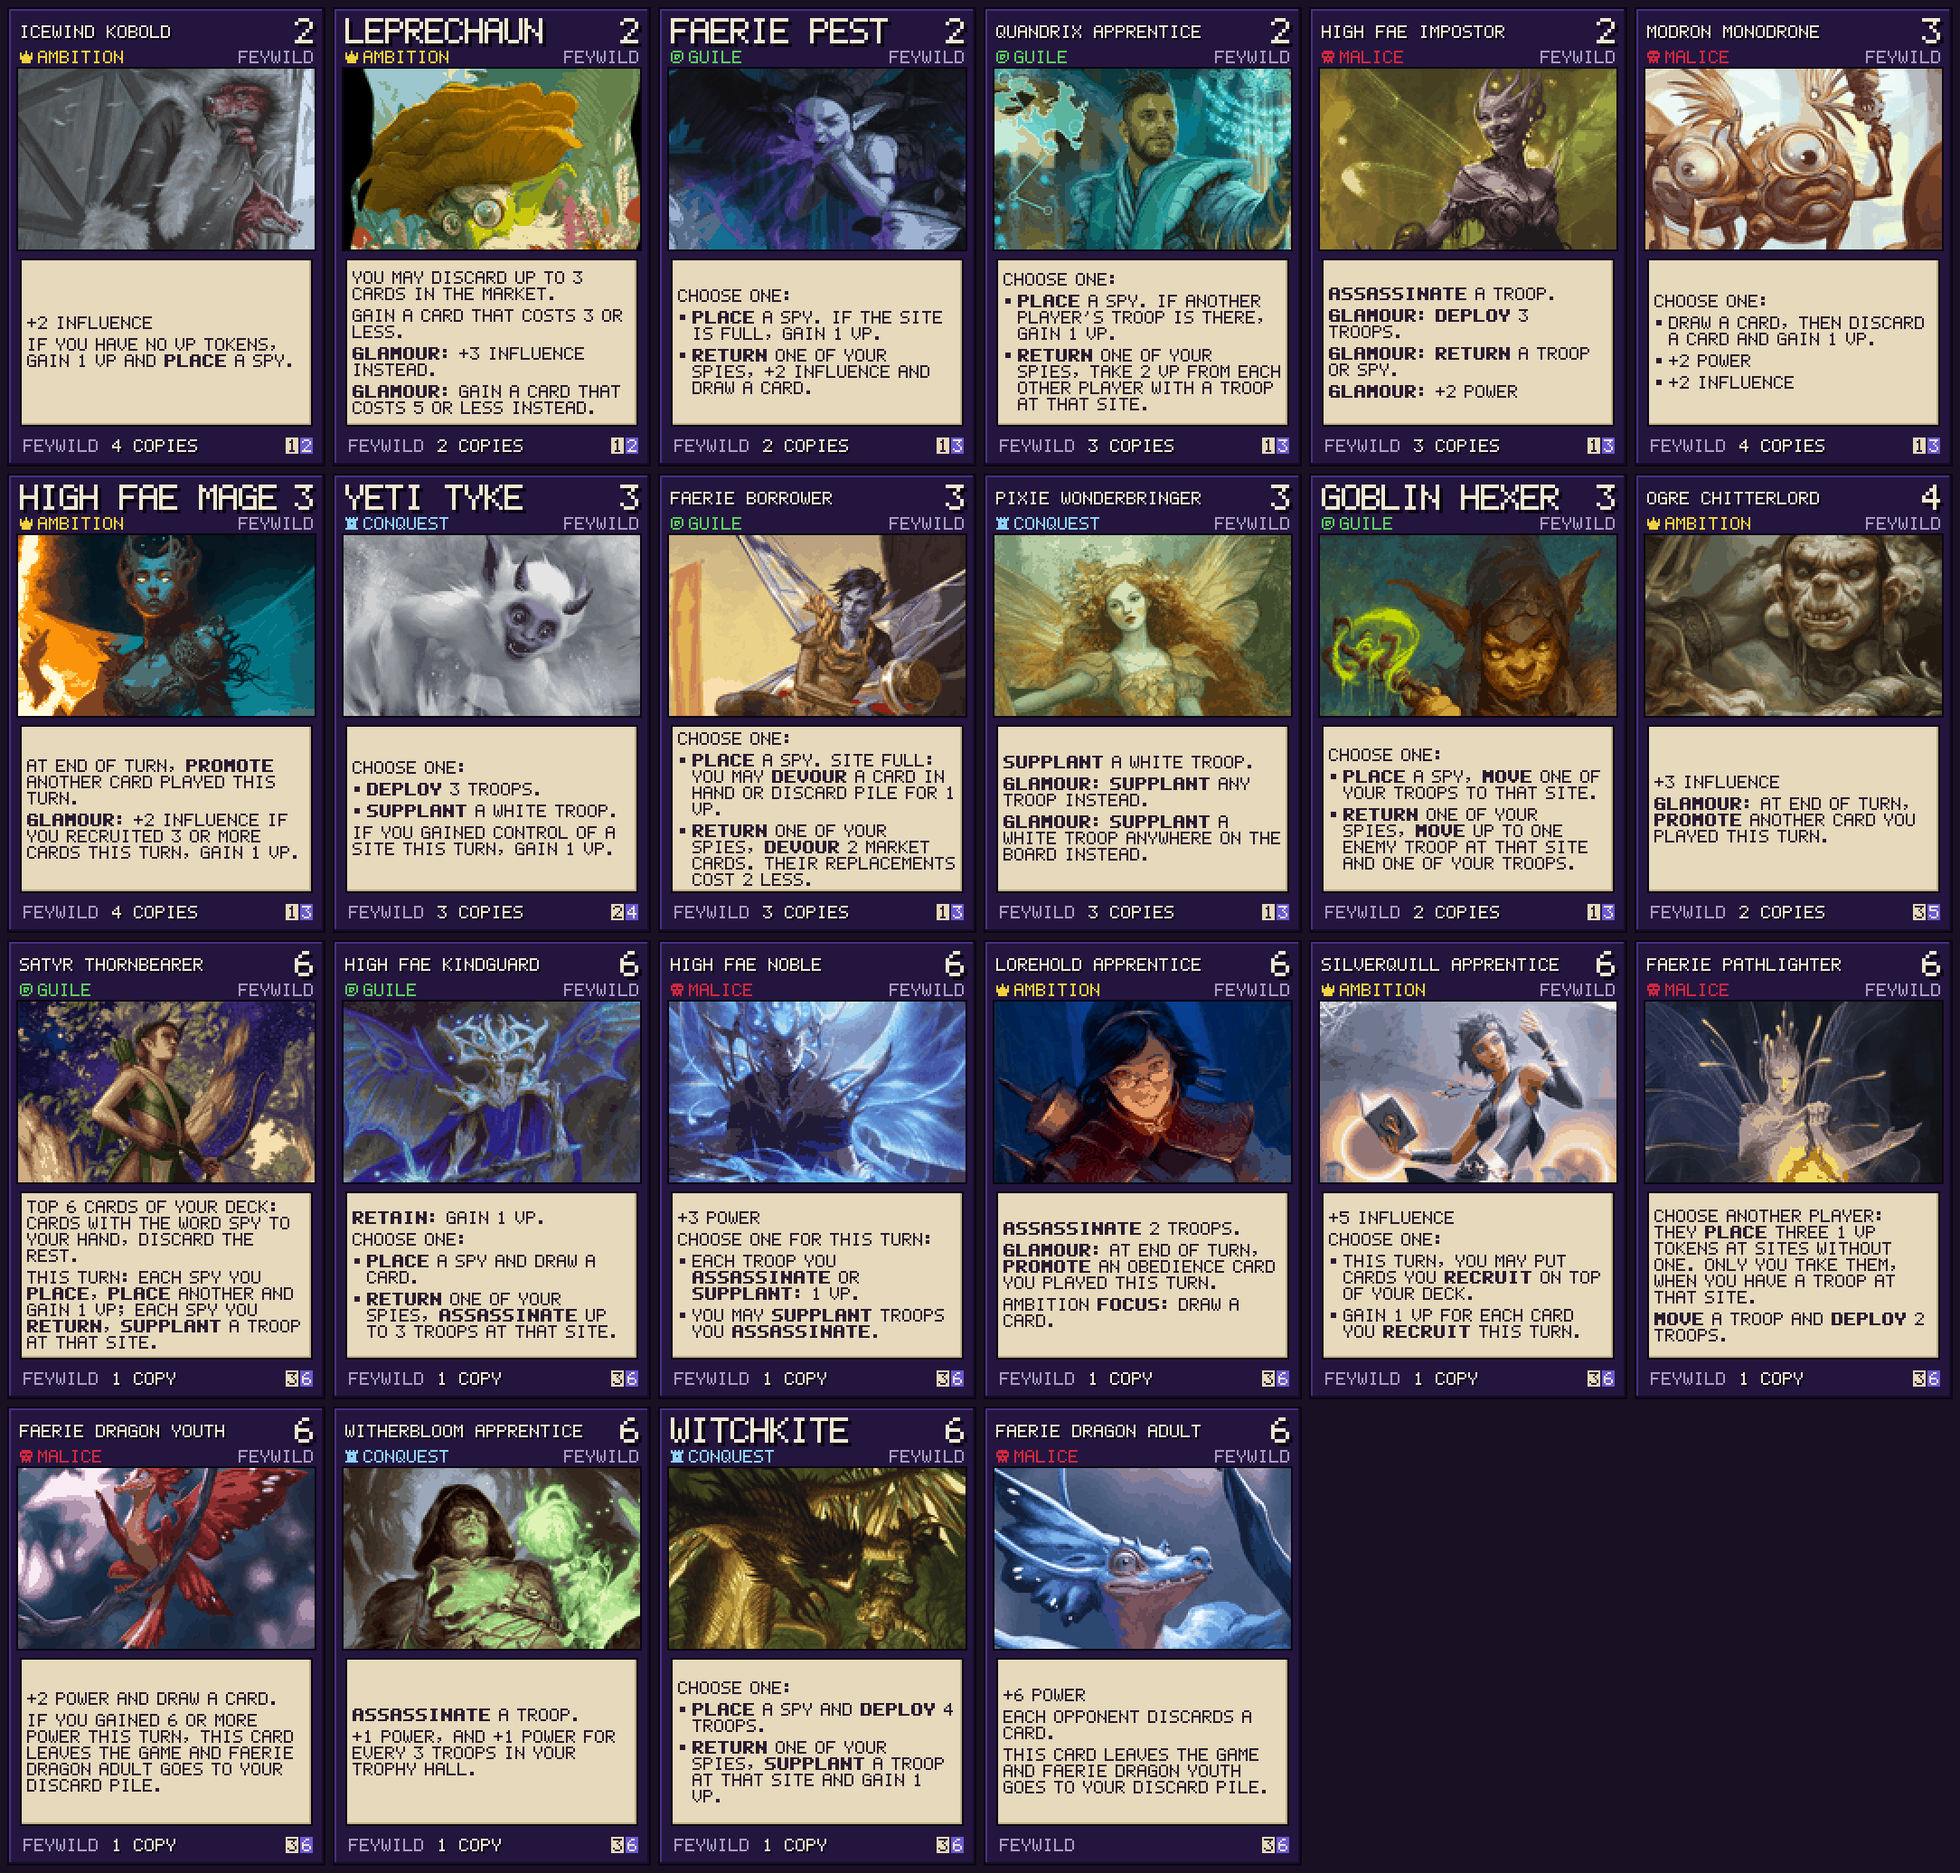
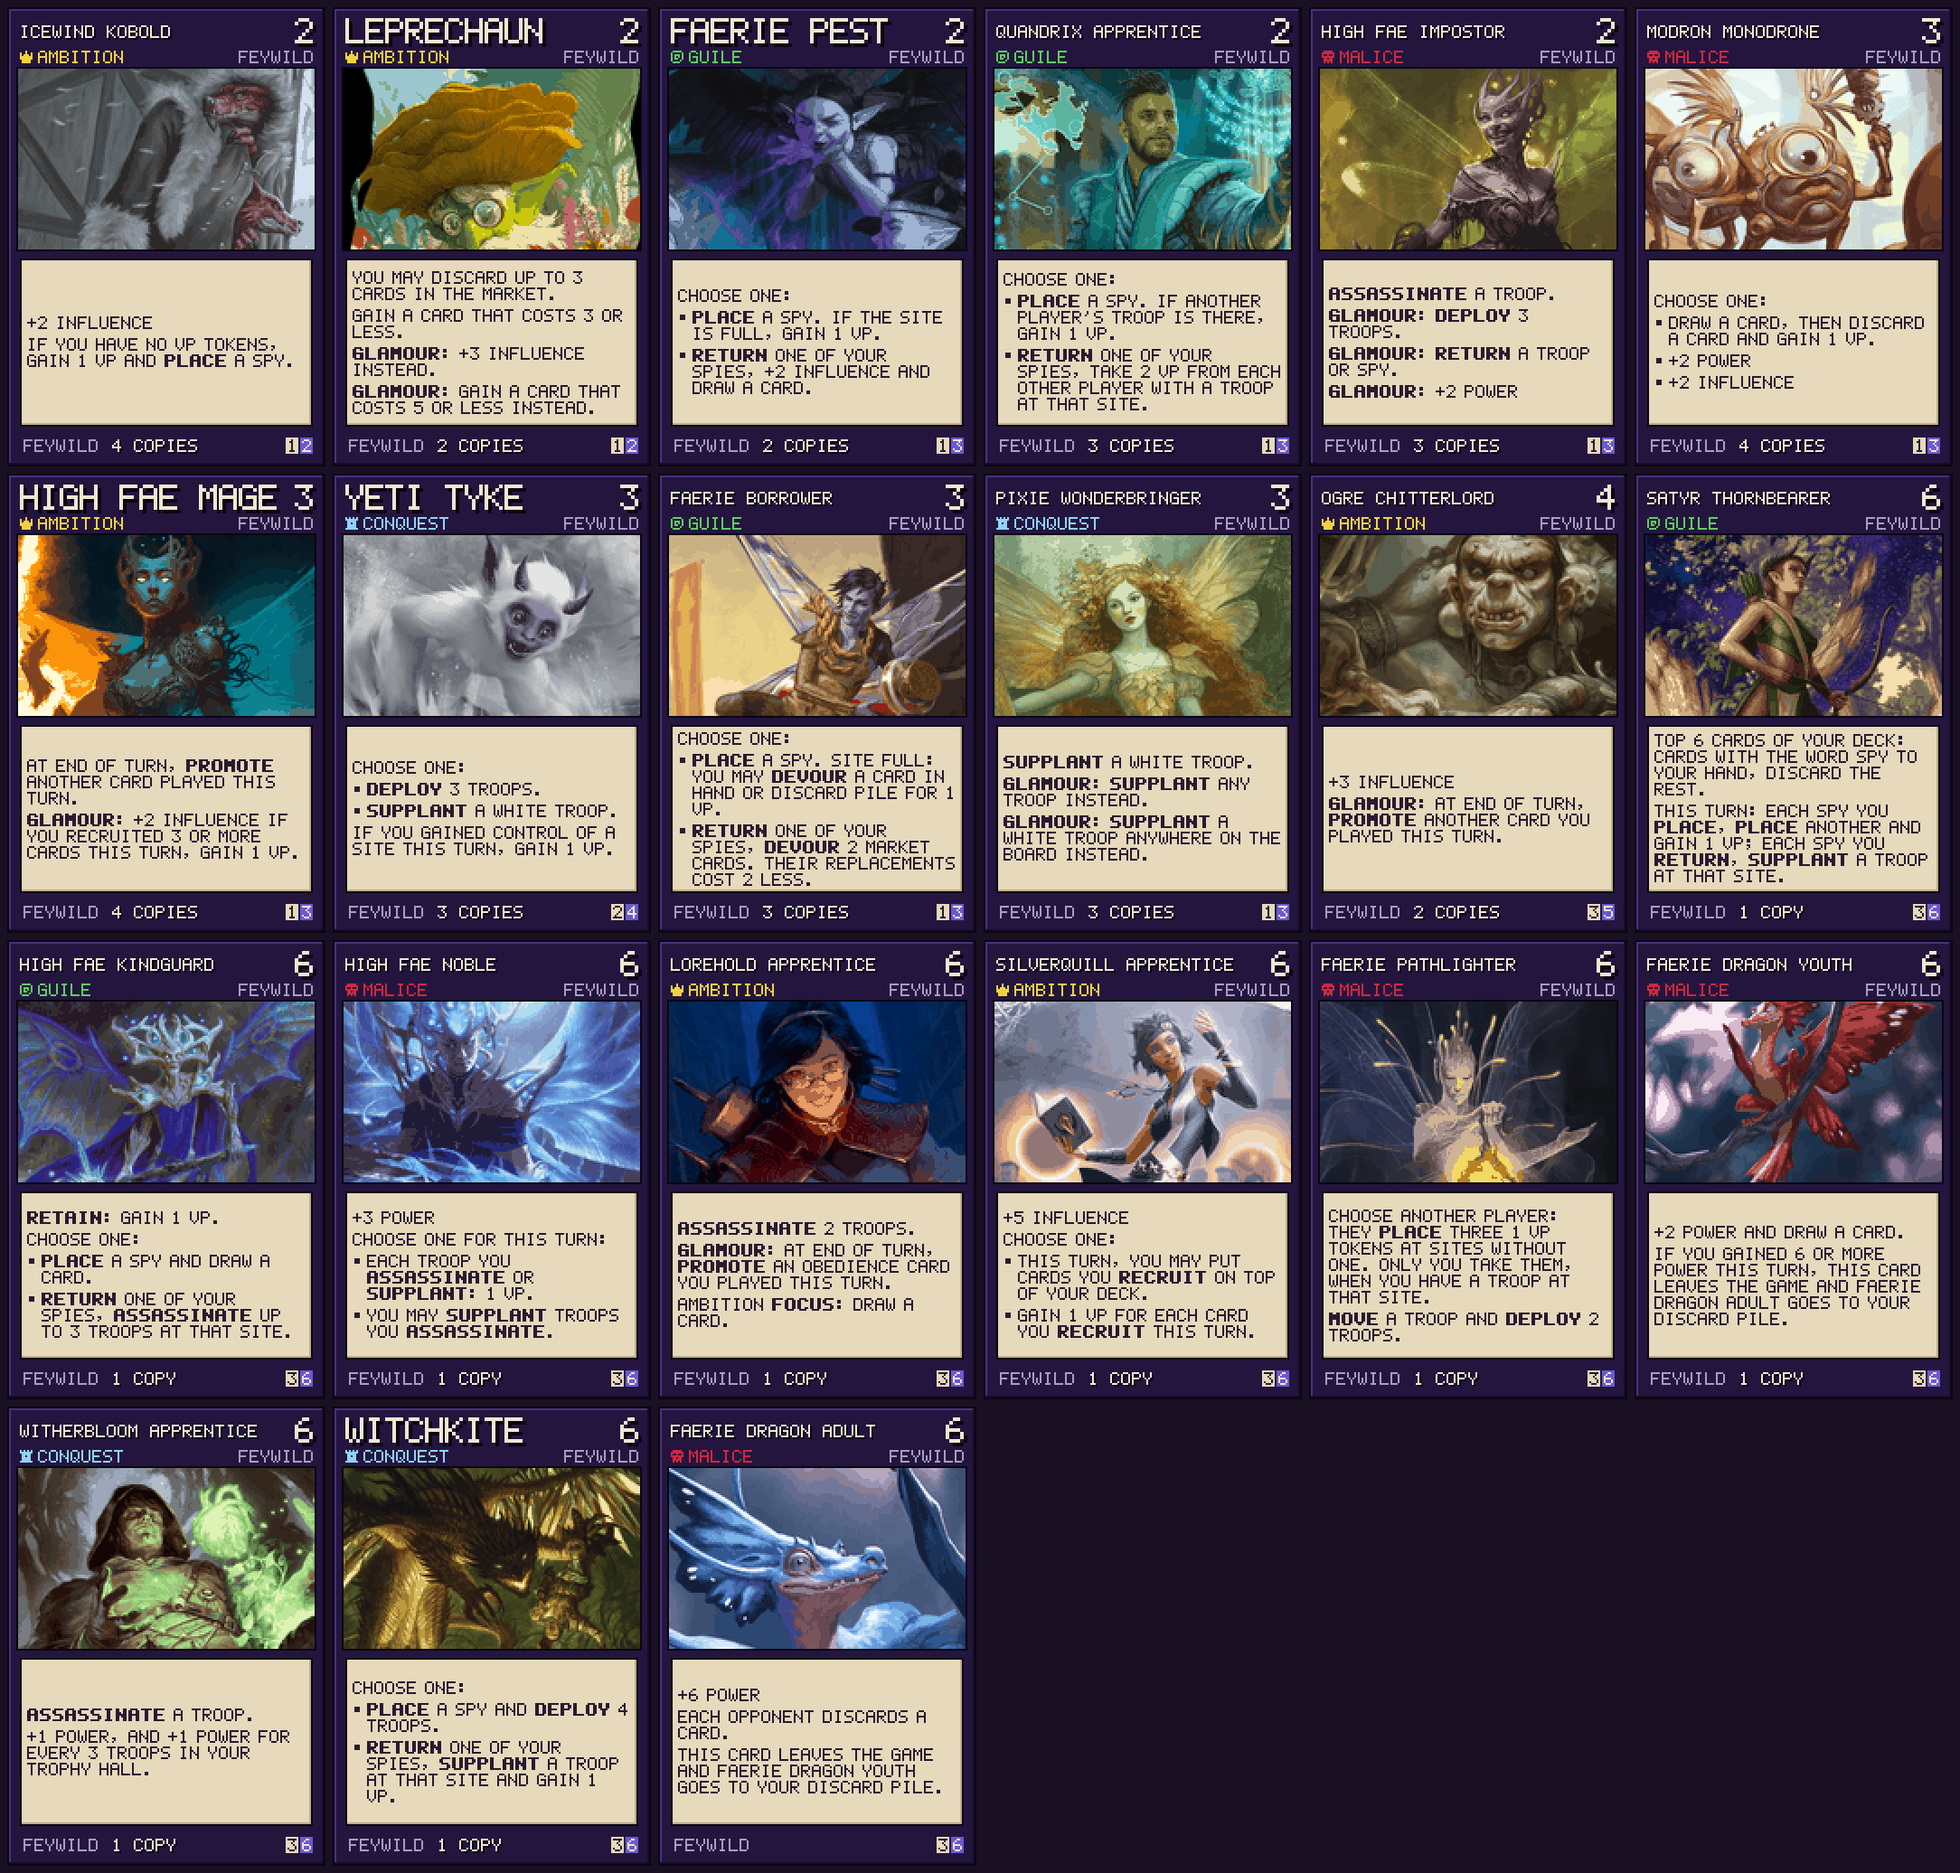
Stage NE-27: FEYWILD cut to 40 cards / 20 unique by the owner - Goblin Hexer out (stays in cards.json), Icewind Kobold and High Fae Mage 3 copies each

Changed region(s): [[0.0, 0.4942, 1.0, 0.7104], [0.0, 0.7413, 0.6799, 1.0], [0.649, 0.2471, 1.0, 0.4633]]

diff --git a/Claude outputs/new_era_handoff.md b/Claude outputs/new_era_handoff.md
@@ -6,7 +6,7 @@
 - **Всё закоммичено, запушено и задеплоено** (кроме коммита с этой сводкой — его push по слову владельца). На сервере сборка **1792240980**, **PROTOCOL 33** (`net/net_session.gd`). Проверка: `curl http://129.101.123.70/tyrants/version.txt`.
 - **Тесты:** `пройдено: 2005, провалено: 0`, сеть `151 / 0`. В тесте карт 329 (126 классических + 25 Celestial + 25 Shadow + 21 Piltover + 20 Siege + 20 Mercenaries + 25 Avernus + 23 Icewind Dale + 21 Calimshan + 23 Kara-Tur). Сетевой `[server4] … доска легла в сетку` иногда падает по времени — повторный прогон проходит. Полный прогон run_tests идёт ~5–8 минут (запускать в фоне).
 - **Колоды:** 7 колод New Era в обычном пуле (NE-20), все 40/20. Две последние — `wip` (только кнопками в NEW ERA, не в STANDARD/RANDOM и онлайн-поиске): **CALIMSHAN** (Shurima, NE-21/22) и **KARA-TUR** (Ionia, NE-23…25). Снять `wip` — только по слову владельца (меняет сиды обычных режимов), затем поднять PROTOCOL и задеплоить. Обе колоды владелец **ещё не проверял живьём** — чек-листы в `new_era_shurima.md` и `new_era_ionia.md`.
-- **NE-26 (2026-10-17): Bandle City → FEYWILD** (ключ `bandle`, id 49900–49922, `wip`, 21 уникальная / 44 карты — все карты мода; Rumble и Lulu убраны владельцем, вместо них Norra — картинка PDF **457**, раздел Poro). Всё по колоде — `Claude outputs/new_era_bandle.md`, лист `Claude outputs/feywild_cards_all.png`. **Ждёт владельца:** что убрать до 40/20, живая проверка, потом PROTOCOL и деплой. Следующая по PDF — **Targon** (картинки с 210: Soraka, Zoe, Taric, Diana, Pantheon, Leona…; механика Gems/Tribute).
+- **NE-26 (2026-10-17): Bandle City → FEYWILD** (ключ `bandle`, id 49900–49922, `wip`, **40/20** (NE-27: убран Goblin Hexer, Icewind Kobold и High Fae Mage по 3; все арты со сценой — NE-26b); Rumble и Lulu убраны владельцем, вместо них Norra — картинка PDF **457**, раздел Poro). Всё по колоде — `Claude outputs/new_era_bandle.md`, лист `Claude outputs/feywild_cards_all.png`. **Ждёт владельца:** живая проверка (чек-лист в справке), снятие `wip`, потом PROTOCOL и деплой. Следующая по PDF — **Targon** (картинки с 210: Soraka, Zoe, Taric, Diana, Pantheon, Leona…; механика Gems/Tribute).
 - **Арты платных книг D&D Beyond** доступны: в списке поиска (`/monsters?filter-search=…`) у каждой строки `.monster-icon a[href]` — полный арт 1000 px, даже если страница монстра закрыта. Свободные существа больше не проблема.
 - **Порядок работы с новой колодой (владелец, 2026-10-16):** сделать колоду **целиком (все карты мода)**, `wip` → лист всех карт (`tools/new_era/cards_sheet.gd`, сам сортирует по цене) → владелец сам говорит, что убрать до 40/20 (столько уникальных, чтобы осталось 20, и копий, чтобы вышло 40; если после выреза не хватает копий — спросить, кому добавить). Потом `half_decks.json`, тест колоды (число карт, уникальных, размер рынка), справка, PROTOCOL.
 - **Владелец меняет чемпионов на Extra Champions мода** (Azir→Naafiri, Jhin→Hwei). Extra Champions — картинки PDF 331–400 (например, 373 Hwei, 379 Brand, 380 Naafiri); быстро найти — контакт-лист `art_contact.gd` на копию папки 331–400.
@@ -48,7 +48,7 @@
   | **ICEWIND DALE** | Freljord | `freljord` | 49600–49620, 49634–49636 | NE-11 (правила), NE-12 (арты, UI), NE-12b (PROTOCOL 25), NE-17 (Gragas/Aurora/Olaf) |
   | **CALIMSHAN** | Shurima (+ Naafiri) | `shurima` | 49700–49720 | NE-21 (все 45 карт), NE-22 (40/20) |
   | **KARA-TUR** | Ionia (+ Hwei) | `ionia` | 49800–49822 | NE-23 (все 45 карт), NE-24/25 (40/20) |
-  | **FEYWILD** | Bandle City (+ Norra, без Rumble и Lulu) | `bandle` | 49900–49922 | NE-26 (все 44 карты, wip) |
+  | **FEYWILD** | Bandle City (+ Norra, без Rumble и Lulu) | `bandle` | 49900–49922 | NE-26 (все 44 карты), NE-26b (арты со сценой), NE-27 (40/20), wip |
 
   Плюс две фанатские колоды Tyrants другой сессии — **SIEGE** (49300–49319) и **MERCENARIES** (49400–49419), см. раздел в конце.
 - Всё закоммичено и запушено на GitHub (`main`). Последний деплой — сборка 1792009359 (2026-10-15, после NE-20, **PROTOCOL 27**): все колоды New Era в обычном пуле.

diff --git a/Claude outputs/new_era_bandle.md b/Claude outputs/new_era_bandle.md
@@ -38,7 +38,7 @@
 - 326 **Mega Gnar** (жетон, Valor, 6, 3/6): Gain 6 Power and each opponent discards a card. Transform into Gnar.
 
 ## NE-26 (2026-10-17): Bandle City → FEYWILD (wip)
-- Владелец: 2014-арты можно; **Rumble и Lulu убраны, вместо них Norra** (Extra Champions). Колода — все карты мода: **21 уникальная, 44 копии**. Урезать до 40/20 — по слову владельца (лист `Claude outputs/feywild_cards_all.png`).
+- Владелец: 2014-арты можно; **Rumble и Lulu убраны, вместо них Norra** (Extra Champions). NE-26 — все карты мода (21/44); **NE-27 — 40/20 по выбору владельца**: убран Goblin Hexer (остался в cards.json), Icewind Kobold и High Fae Mage по 3.
 - Ключ `bandle`, тип `FEYWILD`, id 49900–49922 (49907 свободен), `wip` (кнопка FEYWILD в NEW ERA, фон — зелёный луг). Эффекты `core/cards/bandle_cards.gd`, тест `test_feywild_deck`.
 - Арты: в списке поиска D&D Beyond (`.monster-icon a[href]`) есть полный арт даже у монстров из платных книг. **Владелец: персонажей на белом фоне — заменить** (2026-10-17) — теперь все 22 арта со сценой: феи Эльдрейна (High Fae, Faerie), ученики Стриксхейвена (Lorehold, Silverquill, Witherbloom, Quandrix Apprentice) и др. Фон проверяет `tools/new_era/art_bgcheck.gd` (DIR=папка: BG — сцена, CUT — белый/прозрачный край). Кандидаты — `cards/bandle/cand*` (не в git).
 
@@ -54,8 +54,8 @@
 | 49908 | Witherbloom Apprentice | Veigar | 1 |
 | 49909 | Witchkite | Corki | 1 |
 | 49910 | Modron Monodrone | Bandle Gunners | 4 |
-| 49911 | High Fae Mage | Realm Caretaker | 4 |
-| 49912 | Icewind Kobold | Yordle Explorer | 4 |
+| 49911 | High Fae Mage | Realm Caretaker | 3 |
+| 49912 | Icewind Kobold | Yordle Explorer | 3 |
 | 49913 | Leprechaun | Bandle City Mayor | 2 |
 | 49914 | Faerie Pest | Bandle Painter | 2 |
 | 49915 | Quandrix Apprentice | Banana Blaster | 3 |
@@ -64,7 +64,7 @@
 | 49918 | High Fae Impostor | Carved Bladetwirler | 3 |
 | 49919 | Pixie Wonderbringer | Tornado Warrior | 3 |
 | 49920 | Ogre Chitterlord | Yordle Captain | 2 |
-| 49921 | Goblin Hexer | Portal Scholar | 2 |
+| 49921 | Goblin Hexer | Portal Scholar | — (убран, NE-27) |
 | 49922 | Faerie Dragon Adult | Mega Gnar (не в рынке) | — |
 
 ### Толкования
